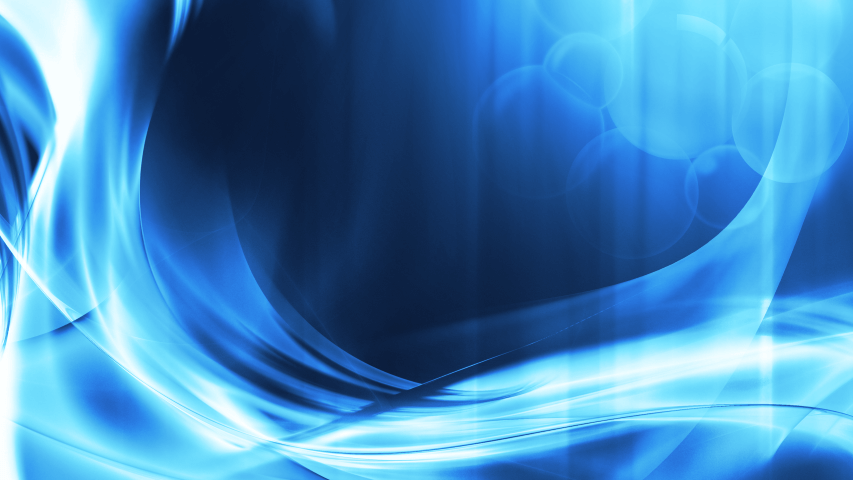
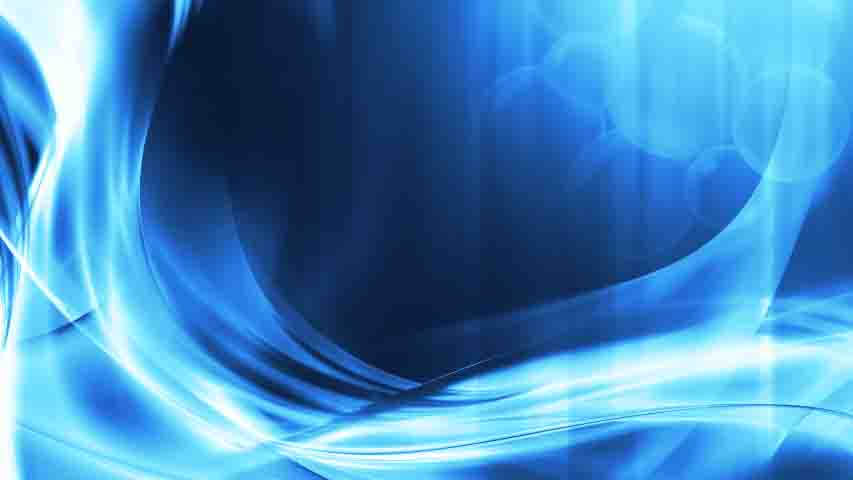
Replaced Macro Grass picture in history.

diff --git a/resources.html b/resources.html
@@ -234,17 +234,16 @@
                 class="history-images history-images-left float-left flex-center"
               >
                 <a
-                  href="images/resources/history/macro_grass.jpg"
+                  href="images/resources/history/daniele_asadal.jpg"
                   title="Open Image"
                   ><img
-                    src="images/resources/history/thumbnails/macro_grass.jpg"
-                    alt="Macro Grass"
+                    src="images/resources/history/thumbnails/daniele_asadal.jpg"
+                    alt="Daniele63 Artwork"
                 /></a>
                 <span class="gradient-style-text"
-                  >Macro Grass (Image by
-                  <a
-                    href="https://unsplash.com/@choukrikh?utm_content=creditCopyText&utm_medium=referral&utm_source=unsplash"
-                    >Choukri Elkhamlichi)</a
+                  >Asadal-Inspired Artwork (Image by
+                  <a href="https://frutigeraeroarchive.org/"
+                    >Daniele63)</a
                   ></span
                 >
               </div>

diff --git a/art_gallery.html b/art_gallery.html
@@ -235,7 +235,9 @@
                 </a>
                 <div>
                   <span class="gradient-style-text">Made by </span
-                  ><a href="https://daniele63.com/" class="gradient-style-text"
+                  ><a
+                    href="https://frutigeraeroarchive.org/"
+                    class="gradient-style-text"
                     >Daniele63</a
                   >
                 </div>
